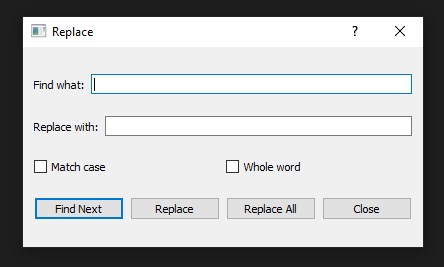
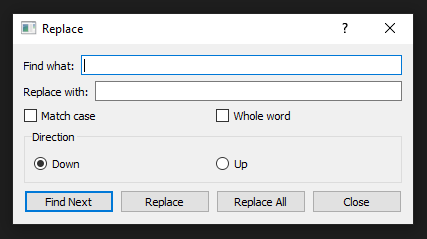
Adding directional finding to Find and Replace dialog + Updating screenshots

Changed region(s): [[0.0304, 0.0586, 0.9742, 0.9372], [0.4871, 0.5858, 0.7002, 0.7029]]

diff --git a/coding-puddle.py b/coding-puddle.py
@@ -1652,7 +1652,7 @@ class ReplaceDialog(QDialog):
         super().__init__()
         self.text_area = text_area
         self.setWindowTitle("Replace")
-        self.setFixedSize(400, 240)
+        self.setFixedSize(400, 180)
         
         layout = QVBoxLayout()
         
